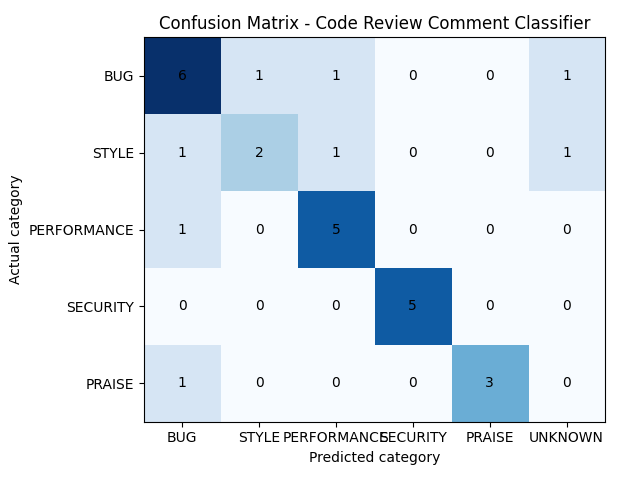
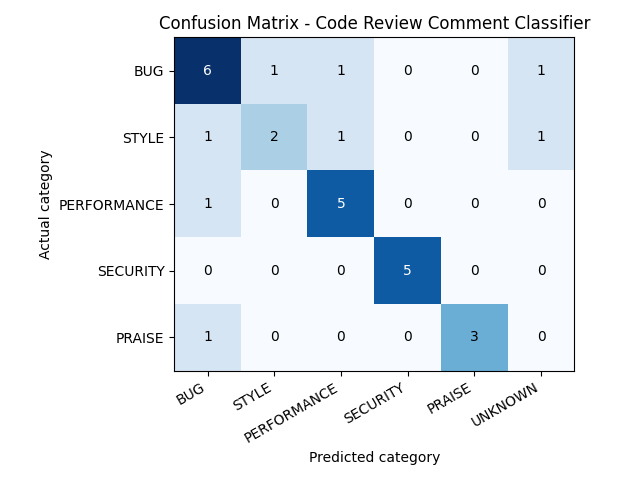
Improve confusion matrix chart readability

diff --git a/confusion_chart.py b/confusion_chart.py
@@ -27,7 +27,7 @@ with Path(__file__).with_name("comments.csv").open(
         counts[actual_categories.index(actual), predicted_categories.index(predicted)] += 1
 
 plt.imshow(counts, cmap="Blues")
-plt.xticks(range(len(predicted_categories)), predicted_categories)
+plt.xticks(range(len(predicted_categories)), predicted_categories, rotation=30, ha="right")
 plt.yticks(range(len(actual_categories)), actual_categories)
 plt.xlabel("Predicted category")
 plt.ylabel("Actual category")
@@ -35,7 +35,8 @@ plt.title("Confusion Matrix - Code Review Comment Classifier")
 
 for row in range(counts.shape[0]):
     for column in range(counts.shape[1]):
-        plt.text(column, row, str(counts[row, column]), ha="center", va="center")
+                text_colour = "white" if counts[row, column] > 3 else "black"
+                plt.text(column, row, str(counts[row, column]), ha="center", va="center", color=text_colour)
 
 plt.tight_layout()
 plt.savefig(Path(__file__).with_name("confusion_matrix.png"))
